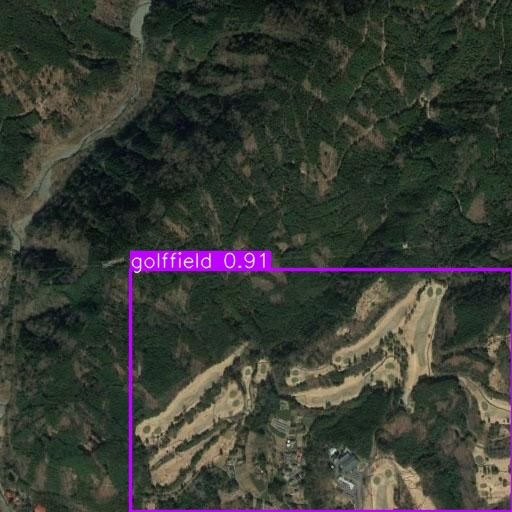
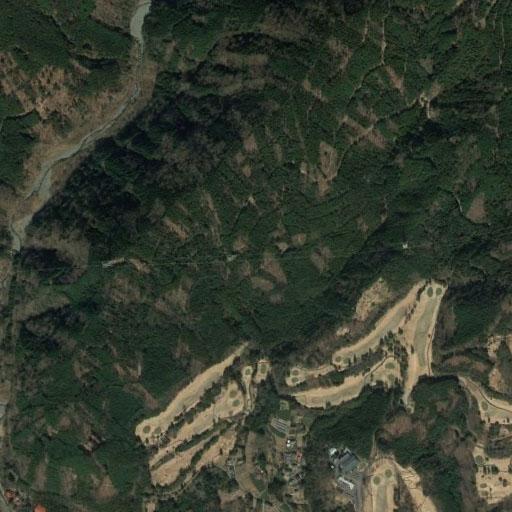
deploy

Changed region(s): [[0.25, 0.4688, 1.0, 1.0]]

diff --git a/app.py b/app.py
@@ -2,46 +2,52 @@ from flask import Flask, render_template, request, redirect, url_for, send_from_
 from ultralytics import YOLO
 import os
 import cv2
+import subprocess
 from werkzeug.utils import secure_filename
 
-# Initialize the Flask app
+# ---------------- APP INIT ---------------- #
 app = Flask(__name__)
 
-# Folder for uploaded images and results
 UPLOAD_FOLDER = 'uploads'
 RESULTS_FOLDER = 'results'
 
-# Create directories if they don't exist
 os.makedirs(UPLOAD_FOLDER, exist_ok=True)
 os.makedirs(RESULTS_FOLDER, exist_ok=True)
 
 app.config['UPLOAD_FOLDER'] = UPLOAD_FOLDER
 app.config['RESULTS_FOLDER'] = RESULTS_FOLDER
 
-# Load the YOLO model
-model = YOLO('best.pt')
-
 app.secret_key = 'supersecretkey'
 
-# In-memory user database (demo only)
+# ---------------- MODEL ---------------- #
+model = YOLO('best.pt')
+
+# ---------------- USERS (demo only) ---------------- #
 users = {}
+
+# ---------------- ROUTES ---------------- #
 
 @app.route('/')
 def home():
     return render_template('home.html')
 
+
 @app.route('/index')
 def index():
     return render_template('index.html')
+
 
 @app.route('/category')
 def category():
     return render_template('index.html')
 
+
 @app.route('/contact')
 def contact():
     return render_template('contact.html')
 
+
+# ---------------- REGISTER ---------------- #
 @app.route('/register', methods=['GET', 'POST'])
 def register():
     if request.method == 'POST':
@@ -59,6 +65,7 @@ def register():
     return render_template('register.html')
 
 
+# ---------------- LOGIN ---------------- #
 @app.route('/login', methods=['GET', 'POST'])
 def login():
     if request.method == 'POST':
@@ -75,6 +82,7 @@ def login():
     return render_template('login.html')
 
 
+# ---------------- UPLOAD (IMAGE + VIDEO FIXED) ---------------- #
 @app.route('/upload', methods=['POST'])
 def upload_file():
 
@@ -86,36 +94,33 @@ def upload_file():
     if file.filename == '':
         return redirect(url_for('home'))
 
-    if file:
+    filename = secure_filename(file.filename)
+    file_path = os.path.join(app.config['UPLOAD_FOLDER'], filename)
+    file.save(file_path)
 
-        filename = secure_filename(file.filename)
+    # ---------------- VIDEO ---------------- #
+    if filename.lower().endswith(('.mp4', '.avi', '.mov', '.mkv')):
+        return process_video(file_path, filename)
 
-        file_path = os.path.join(
-            app.config['UPLOAD_FOLDER'],
-            filename
-        )
+    # ---------------- IMAGE ---------------- #
+    results = model.predict(file_path, imgsz=320)
 
-        file.save(file_path)
+    result_img_path = os.path.join(
+        app.config['RESULTS_FOLDER'],
+        f"result_{filename}"
+    )
 
-        # YOLO prediction (FIXED)
-        results = model.predict(file_path, imgsz=320)
+    annotated_frame = results[0].plot()
+    cv2.imwrite(result_img_path, annotated_frame)
 
-        result_img_path = os.path.join(
-            app.config['RESULTS_FOLDER'],
-            f"result_{filename}"
-        )
-
-        annotated_frame = results[0].plot()
-
-        cv2.imwrite(result_img_path, annotated_frame)
-
-        return render_template(
-            'result.html',
-            original_file=filename,
-            result_file=f"result_{filename}"
-        )
+    return render_template(
+        'result.html',
+        original_file=filename,
+        result_file=f"result_{filename}"
+    )
 
 
+# ---------------- FILE SERVING ---------------- #
 @app.route('/uploads/<filename>')
 def uploaded_file(filename):
     return send_from_directory(app.config['UPLOAD_FOLDER'], filename)
@@ -128,9 +133,61 @@ def result_file(filename):
 
 @app.route('/results/videos/<filename>')
 def result_video(filename):
-    return send_from_directory(app.config['RESULTS_FOLDER'], filename, mimetype='video/mp4')
+    return send_from_directory(
+        app.config['RESULTS_FOLDER'],
+        filename,
+        mimetype='video/mp4'
+    )
 
 
+# ---------------- VIDEO PROCESSING ---------------- #
+def process_video(input_path, filename):
+
+    cap = cv2.VideoCapture(input_path)
+
+    fps = int(cap.get(cv2.CAP_PROP_FPS))
+    width = int(cap.get(cv2.CAP_PROP_FRAME_WIDTH))
+    height = int(cap.get(cv2.CAP_PROP_FRAME_HEIGHT))
+
+    temp_output = os.path.join(app.config['RESULTS_FOLDER'], "temp.mp4")
+    final_output = os.path.join(app.config['RESULTS_FOLDER'], f"result_{filename}")
+
+    fourcc = cv2.VideoWriter_fourcc(*'mp4v')
+    out = cv2.VideoWriter(temp_output, fourcc, fps, (width, height))
+
+    while cap.isOpened():
+        ret, frame = cap.read()
+        if not ret:
+            break
+
+        results = model(frame)
+        annotated_frame = results[0].plot()
+        out.write(annotated_frame)
+
+    cap.release()
+    out.release()
+
+    # FFmpeg re-encode
+    cmd = [
+        "ffmpeg", "-y",
+        "-i", temp_output,
+        "-c:v", "libx264",
+        "-preset", "medium",
+        "-crf", "23",
+        final_output
+    ]
+
+    subprocess.run(cmd, check=True)
+    os.remove(temp_output)
+
+    return render_template(
+        'result.html',
+        original_file=filename,
+        result_video=f"result_{filename}"
+    )
+
+
+# ---------------- OTHER PAGES ---------------- #
 @app.route('/performance')
 def performance():
     return render_template('performance.html')
@@ -141,5 +198,6 @@ def chart():
     return render_template('chart.html')
 
 
+# ---------------- RUN ---------------- #
 if __name__ == '__main__':
-    app.run(host='0.0.0.0', port=5000)
+    app.run(debug=True, port=5002)
